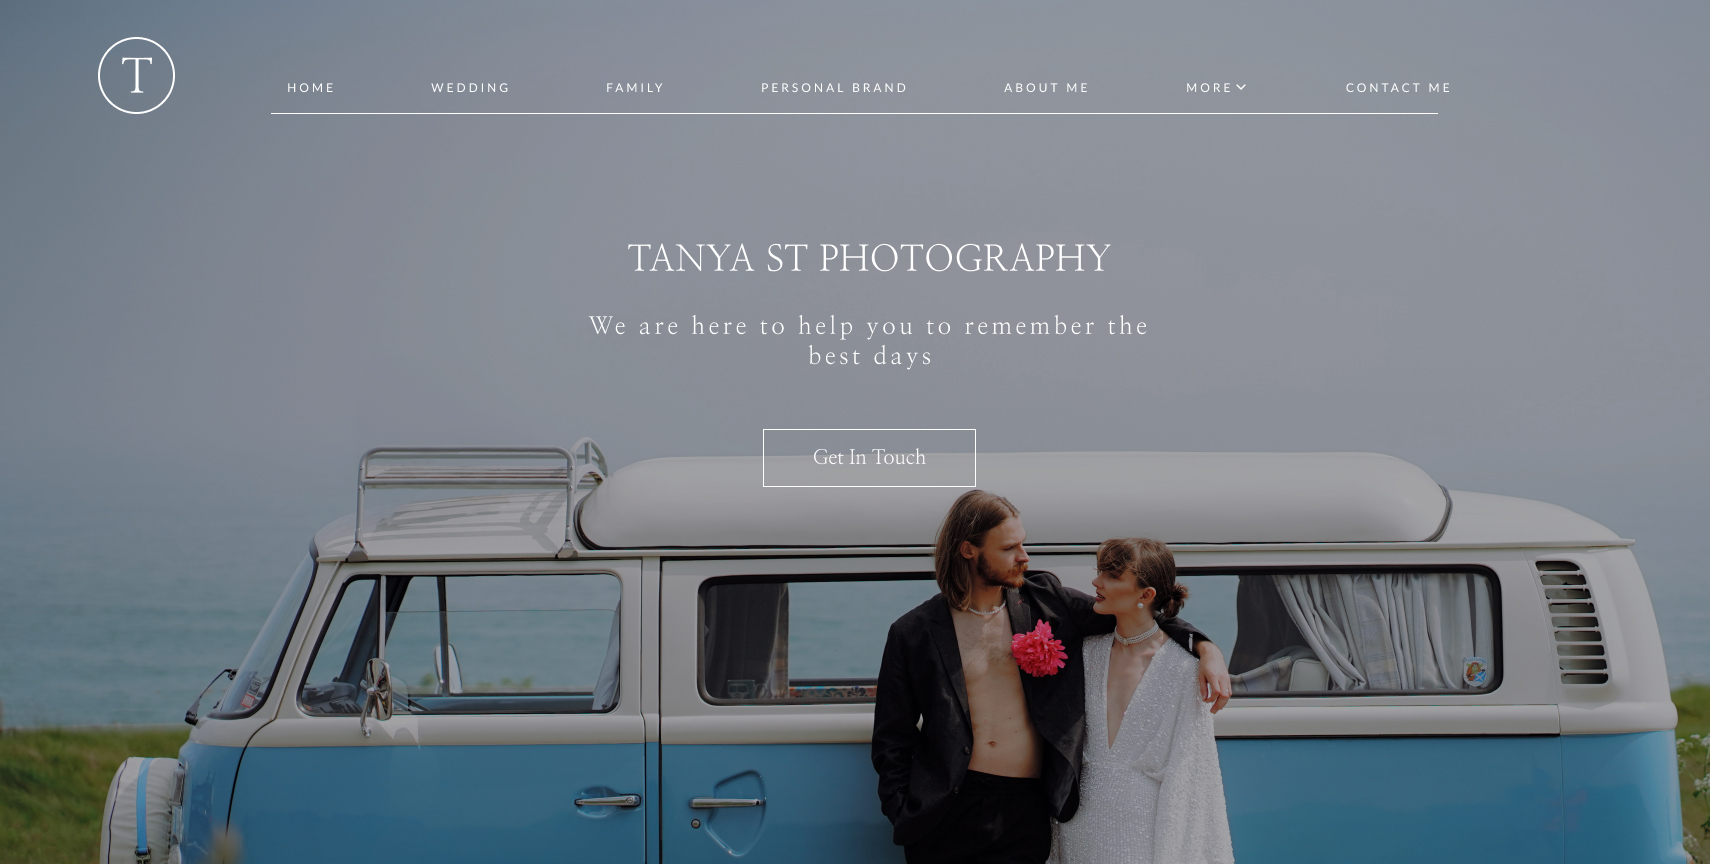
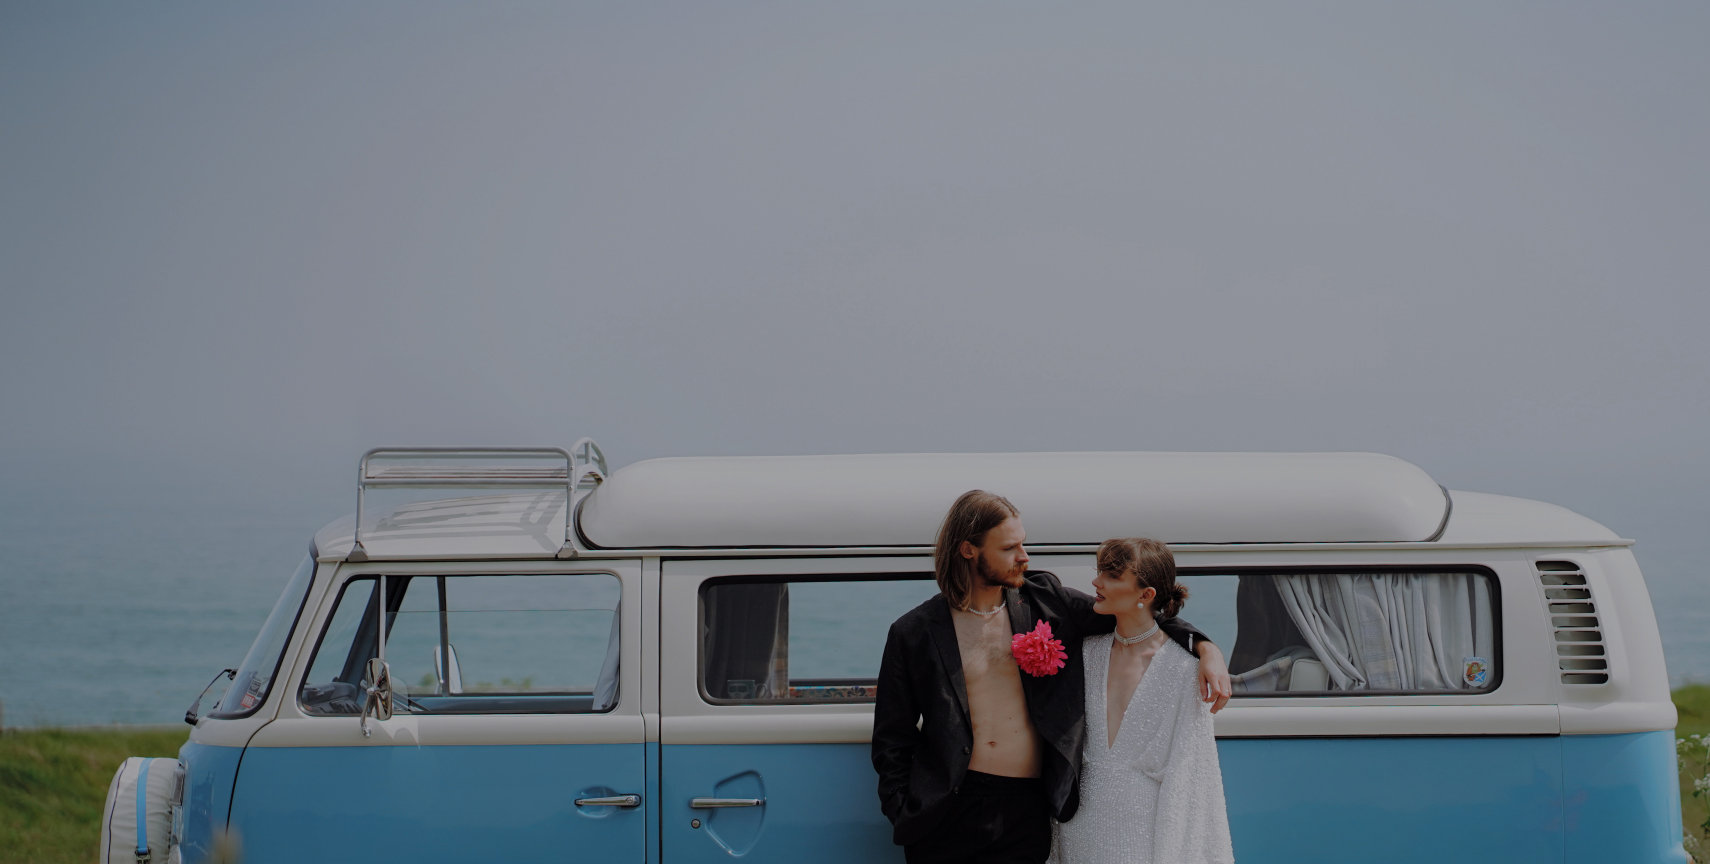
home page upgrated

diff --git a/pages/Home/index.vue b/pages/Home/index.vue
@@ -1,9 +1,140 @@
-<script setup>
-import TButton from "~/components/general/TButton.vue";
-</script>
 
 <template>
-  <div>
-    <TButton>Get In Touch</TButton>
+  <!--Hero Section-->
+  <div class="h-screen bg-cover bg-center" :style="{ backgroundImage: `url(${heroImage})` }">
+    <div class="isolate px-6 pt-14 lg:px-8">
+      <div class="mx-auto max-w-2xl py-32 sm:py-48 lg:pt-32 pb-">
+        <div class="text-center text-white font-nanum space-y-12">
+          <h1 class="text-6xl uppercase">tanya st photography</h1>
+          <p class="mt-6 text-lg leading-8  uppercase">we are here to help you to remember the best days</p>
+          <div class="flex items-center justify-center">
+            <a href="#" class=" text-center outline outline-white w-52 h-14 py-2 px-4 shadow-md text-xl ">Get In Touch</a>
+          </div>
+        </div>
+      </div>
+    </div>
   </div>
+
+
+<!-- Second Section-->
+  <div class="flex flex-col justify-center items-center mt-6">
+    <div class="text-center">
+      <h1 class="text-5xl font-nanum mb-1">
+        Beyond Ordinary
+      </h1>
+      <h1 class="text-5xl font-nanum">
+        Photography
+      </h1>
+    </div>
+    <div class=" flex flex-row space-x-14">
+      <div class="max-w-sm">
+          <a href="#">
+              <img class="" src="/assets/img/home/first_card_img.jpg" alt="" />
+          </a>
+          <div class="p-5 text-center">
+              <a href="#">
+                  <h5 class="mb-2 text-3xl">Wedding</h5>
+              </a>
+              <p class="mb-3 font-normal text-xl">Authentic and creative wedding photography without any unnatural and uncomfortable posing. Whether your style is relaxed, unconventional or more traditional, I will capture the essence of your most special day, not missing any of those precious details. The only thing you’ll need to do is enjoy it to the full!</p>
+              <Tutton
+              color-option="option1"
+              Get In Touch
+              />
+          </div>
+      </div>
+      <div class="max-w-sm mt-28">
+          <a href="#">
+              <img class="" src="/assets/img/home/second_card_img.jpg" alt="" />
+          </a>
+          <div class="p-5 text-center">
+              <a href="#">
+                  <h5 class="mb-2 text-3xl">Family</h5>
+              </a>
+              <p class="mb-3 font-normal text-xl">Special times with the ones you love. The focus is you and your loved ones, and telling the story of your family and the special relationship that you share. Capturing a child’s smile, a parent’s affection or that special bond with your pet, I will ensure they are memories for a lifetime.</p>
+              <Tutton
+              color-option="option1"
+              Get In Touch
+              />
+          </div>
+      </div>
+      <div class="max-w-sm text-center">
+          <a href="#">
+              <img class="" src="/assets/img/home/third_card_img.jpg" alt="" />
+          </a>
+          <div class="p-5 text-center">
+              <a href="#">
+                  <h5 class="mb-2 text-3xl">Elopements</h5>
+              </a>
+              <p class="mb-3 font-normal text-xl">Elopements are wonderfully personal, and so is my approach. I'll work with you to find that enchanted spot where your spirits soar—be it a tranquil lochside, a rugged cliff edge, or a quiet cityscape—and immortalize the moment with the artistry it deserves. I am passionate about creating a visual chronicle that encapsulates the purity and essence of your journey.</p>
+              
+          </div>
+      </div>
+    </div>
+
+    <div class="uppercase text-center text-5xl py-36">
+      <h1 class="mb-1">
+        we will make a wonderful story</h1>
+      <h1>
+        make a statment throuugh every picture</h1>
+    </div>
+  </div>
+
+
+  <div class="flex justify-center items-center pb-11">
+        <div class="w-72 h-px bg-black mr-4"></div>
+        <div class="flex flex-col">
+          <h1 class="text-6xl tracking-widest font-explora text-cente uppercase">
+            making your 
+          </h1>
+          <h1 class="text-6xl tracking-widest font-explora text-cente uppercase">
+            special day
+          </h1>
+       </div>
+        <div class="w-72 h-px bg-black mr-4"></div>
+  </div>
+  
+  <!-- Third Section-->
+  <div class="flex justify-center items-center">
+    <div class="flex flex-row">
+      <img class="" src="/assets/img/home/left_card_img.jpg" alt="Image of married couple">
+      <div class="bg-stone-100">
+        <div class="outline outlin-black m-32 p-11">
+          <div class="font-nanum text-center space-y-11">
+            <h2 class="uppercase text-xl">
+              let`s work together
+            </h2>
+            <h1 class="uppercase text-4xl">
+              every photo with new view
+            </h1>
+            <p class="uppercase text-xl pb-2">
+              i am here to help you to remember your best days
+            </p>
+            <TButton class=""
+            color-option="option1">
+            Get In Touch
+           </TButton>
+          </div>
+        </div>
+      </div>
+    </div>
+  </div>
+
+
 </template>
+
+<script setup>
+import { ref } from 'vue'
+import TButton from '~/components/general/TButton.vue';
+import heroImage from '~/assets/img/home/hero_img.jpg'
+
+</script>
+
+
+
+
+
+
+
+
+
+
